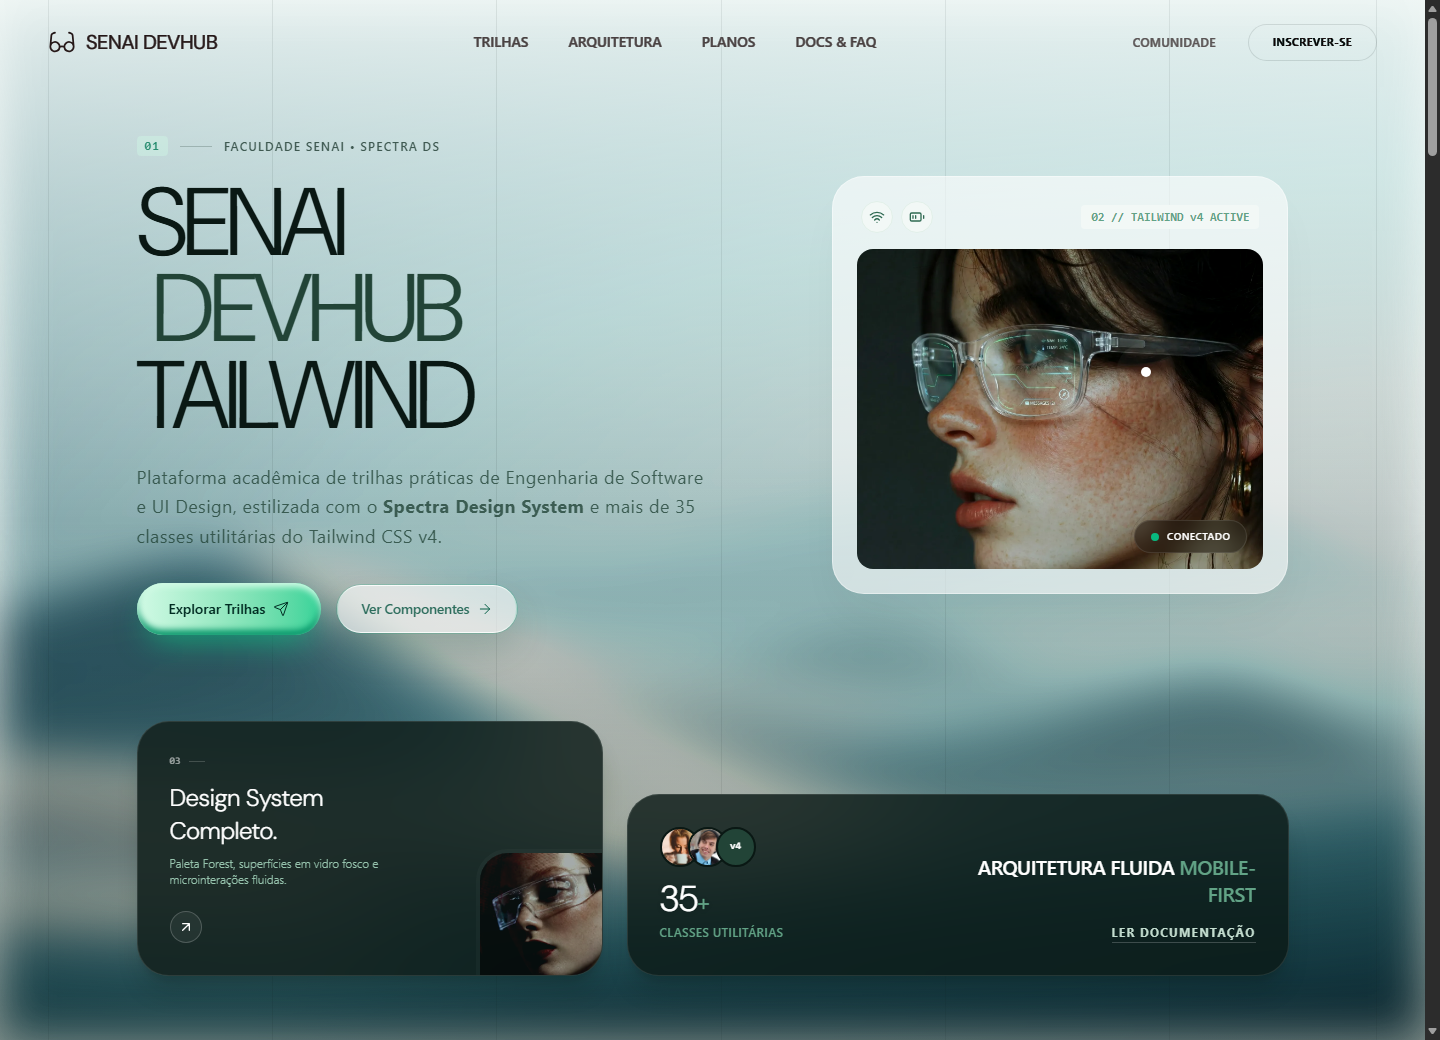
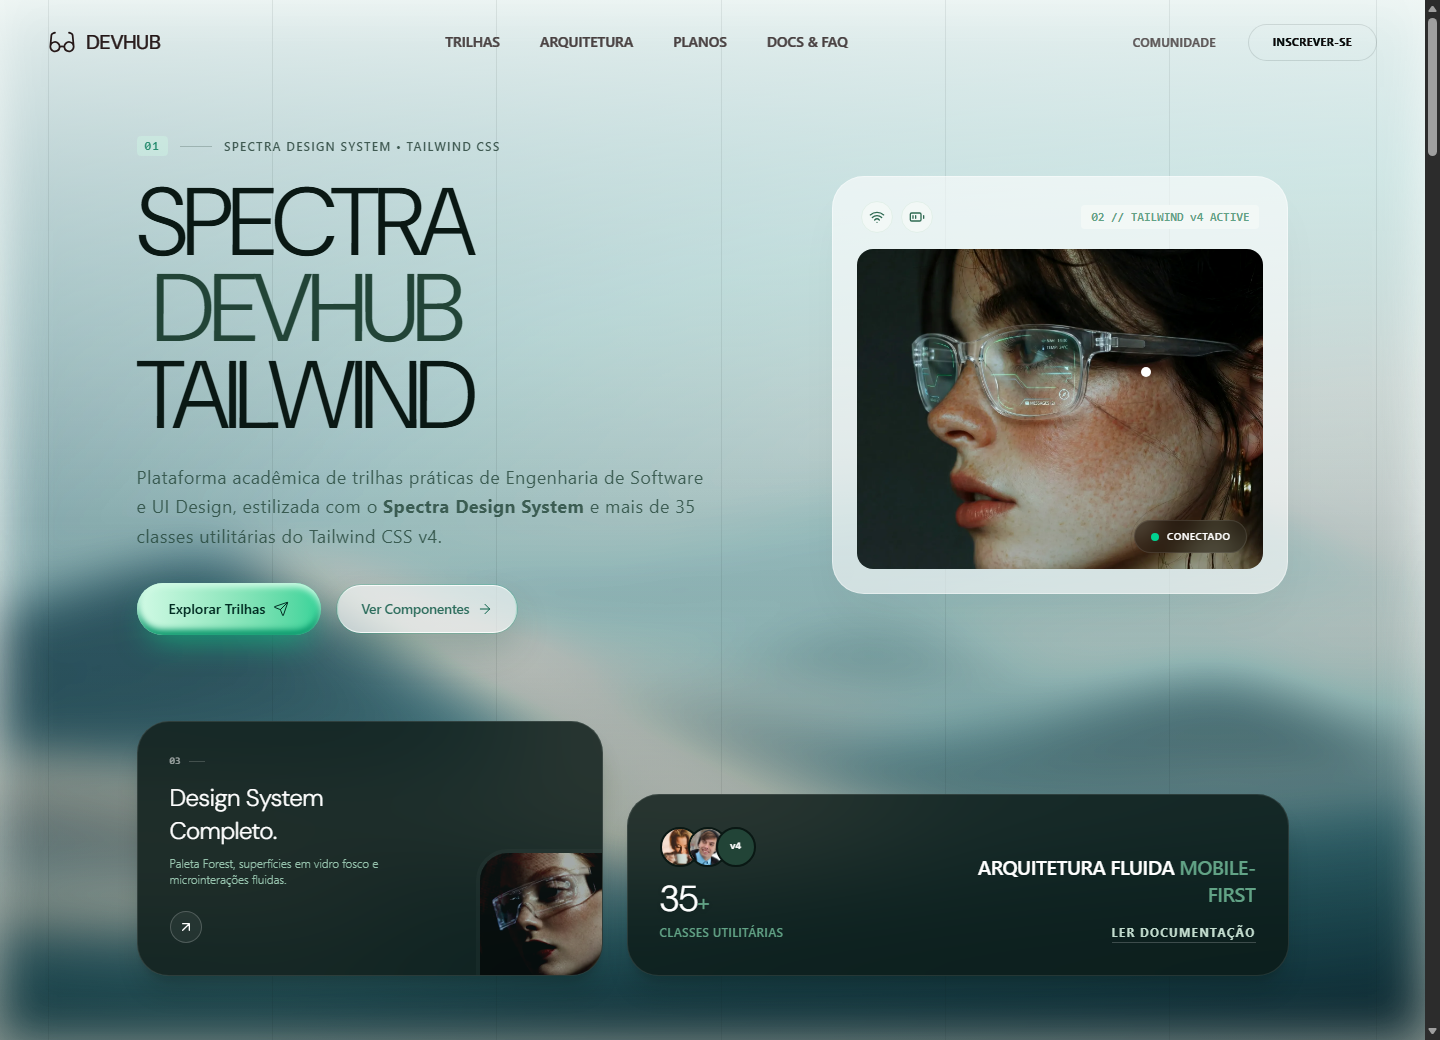
chore: remover referencias ao nome SENAI e atualizar prints

Changed region(s): [[0.125, 0.1231, 0.3438, 0.2462], [0.3125, 0.0308, 0.625, 0.0615], [0.0625, 0.0308, 0.1562, 0.0615]]

diff --git a/index.html b/index.html
@@ -1,9 +1,9 @@
-<!doctype html>
+<!doctype html>
 <html lang="pt-BR" class="scroll-smooth">
   <head>
     <meta charset="UTF-8" />
     <meta name="viewport" content="width=device-width, initial-scale=1.0" />
-    <title>SENAI DevHub — Spectra Design System com Tailwind CSS</title>
+    <title>DevHub — Spectra Design System com Tailwind CSS</title>
     <script src="https://cdn.jsdelivr.net/npm/@tailwindcss/browser@4"></script>
     <script src="assets/js/iconify-preload.js"></script>
     <script src="https://code.iconify.design/iconify-icon/1.0.7/iconify-icon.min.js"></script>
@@ -138,7 +138,7 @@
             clip-rule="evenodd"
           ></path>
         </svg>
-        <span class="uppercase text-xl font-normal tracking-tight font-dm-sans">SENAI DevHub</span>
+        <span class="uppercase text-xl font-normal tracking-tight font-dm-sans">DevHub</span>
       </a>
 
       <nav class="hidden lg:flex text-white/80 uppercase text-sm font-medium gap-x-10 items-center">
@@ -227,12 +227,12 @@
               </span>
               <div class="h-px w-8 bg-forest-900/30"></div>
               <span class="text-xs font-medium uppercase tracking-widest text-forest-900 font-sans">
-                Faculdade SENAI • Spectra DS
+                Spectra Design System • Tailwind CSS
               </span>
             </div>
 
             <h1 class="leading-[0.9] text-forest-950 text-4xl sm:text-5xl md:text-7xl xl:text-8xl tracking-tighter mix-blend-darken mb-6">
-              <span class="block tracking-tighter font-dm-sans font-light">SENAI</span>
+              <span class="block tracking-tighter font-dm-sans font-light">SPECTRA</span>
               <span class="block md:ml-4 ml-2 tracking-tighter text-forest-800 font-dm-sans font-light">DEVHUB</span>
               <span class="block tracking-tighter font-dm-sans font-light">TAILWIND</span>
             </h1>
@@ -336,7 +336,7 @@
               <div class="relative w-full h-64 md:h-80 rounded-2xl overflow-hidden group">
                 <img
                   src="assets/img/hero-preview.webp"
-                  alt="Ambiente Espacial SENAI DevHub"
+                  alt="Ambiente Espacial DevHub"
                   class="transform group-hover:scale-105 transition-transform duration-700 contrast-[1.1] brightness-[0.9] w-full h-full object-cover"
                 />
 
@@ -959,7 +959,7 @@
                   href="#inscricao"
                   class="inline-flex items-center gap-3 bg-forest-950 text-white px-8 py-4 rounded-xl font-medium hover:bg-emerald-600 hover:shadow-lg hover:shadow-emerald-600/20 transition-all duration-300 font-sans group text-sm"
                 >
-                  Participar da Turma SENAI
+                  Explorar a Comunidade
                   <iconify-icon
                     icon="solar:arrow-right-linear"
                     width="20"
@@ -1042,7 +1042,7 @@
             </span>
             <div class="h-px w-8 bg-forest-600"></div>
             <span class="text-xs font-medium uppercase tracking-widest text-forest-400 font-sans">
-              Comunidade SENAI
+              Comunidade DevHub
             </span>
           </div>
           <h2 class="text-4xl md:text-5xl text-forest-50 leading-tight tracking-tighter font-dm-sans font-light">
@@ -1061,7 +1061,7 @@
                   <img src="assets/img/avatar-1.jpg" alt="Lucas" class="w-12 h-12 rounded-full border border-white/10 grayscale group-hover:grayscale-0 transition-all object-cover" />
                   <div>
                     <h4 class="text-sm font-semibold text-white uppercase tracking-wider font-sans">Lucas Almeida</h4>
-                    <span class="text-xs text-forest-400 font-mono">FRONT-END, SENAI</span>
+                    <span class="text-xs text-forest-400 font-mono">FRONT-END, DEV</span>
                   </div>
                 </div>
                 <iconify-icon icon="solar:palette-linear" class="text-emerald-500/50 group-hover:text-emerald-400 transition-colors" width="32"></iconify-icon>
@@ -1077,7 +1077,7 @@
                   <img src="assets/img/avatar-2.jpg" alt="Mariana" class="w-12 h-12 rounded-full border border-white/10 grayscale group-hover:grayscale-0 transition-all object-cover" />
                   <div>
                     <h4 class="text-sm font-semibold text-white uppercase tracking-wider font-sans">Mariana Costa</h4>
-                    <span class="text-xs text-forest-400 font-mono">UI DESIGN, SENAI</span>
+                    <span class="text-xs text-forest-400 font-mono">UI DESIGN, STUDIO</span>
                   </div>
                 </div>
                 <iconify-icon icon="solar:planet-linear" class="text-emerald-500/50 group-hover:text-emerald-400 transition-colors" width="32"></iconify-icon>
@@ -1110,7 +1110,7 @@
                   <img src="assets/img/avatar-1.jpg" alt="Lucas" class="w-12 h-12 rounded-full border border-white/10 grayscale group-hover:grayscale-0 transition-all object-cover" />
                   <div>
                     <h4 class="text-sm font-semibold text-white uppercase tracking-wider font-sans">Lucas Almeida</h4>
-                    <span class="text-xs text-forest-400 font-mono">FRONT-END, SENAI</span>
+                    <span class="text-xs text-forest-400 font-mono">FRONT-END, DEV</span>
                   </div>
                 </div>
                 <iconify-icon icon="solar:palette-linear" class="text-emerald-500/50 group-hover:text-emerald-400 transition-colors" width="32"></iconify-icon>
@@ -1126,7 +1126,7 @@
                   <img src="assets/img/avatar-2.jpg" alt="Mariana" class="w-12 h-12 rounded-full border border-white/10 grayscale group-hover:grayscale-0 transition-all object-cover" />
                   <div>
                     <h4 class="text-sm font-semibold text-white uppercase tracking-wider font-sans">Mariana Costa</h4>
-                    <span class="text-xs text-forest-400 font-mono">UI DESIGN, SENAI</span>
+                    <span class="text-xs text-forest-400 font-mono">UI DESIGN, STUDIO</span>
                   </div>
                 </div>
                 <iconify-icon icon="solar:planet-linear" class="text-emerald-500/50 group-hover:text-emerald-400 transition-colors" width="32"></iconify-icon>
@@ -1161,7 +1161,7 @@
                   <img src="assets/img/avatar-4.jpg" alt="Beatriz" class="w-12 h-12 rounded-full border border-white/10 grayscale group-hover:grayscale-0 transition-all object-cover" />
                   <div>
                     <h4 class="text-sm font-semibold text-white uppercase tracking-wider font-sans">Beatriz Lima</h4>
-                    <span class="text-xs text-forest-400 font-mono">ENGENHARIA, SENAI</span>
+                    <span class="text-xs text-forest-400 font-mono">ENGENHARIA, TECH</span>
                   </div>
                 </div>
                 <iconify-icon icon="solar:heart-pulse-linear" class="text-emerald-500/50 group-hover:text-emerald-400 transition-colors" width="32"></iconify-icon>
@@ -1210,7 +1210,7 @@
                   <img src="assets/img/avatar-4.jpg" alt="Beatriz" class="w-12 h-12 rounded-full border border-white/10 grayscale group-hover:grayscale-0 transition-all object-cover" />
                   <div>
                     <h4 class="text-sm font-semibold text-white uppercase tracking-wider font-sans">Beatriz Lima</h4>
-                    <span class="text-xs text-forest-400 font-mono">ENGENHARIA, SENAI</span>
+                    <span class="text-xs text-forest-400 font-mono">ENGENHARIA, TECH</span>
                   </div>
                 </div>
                 <iconify-icon icon="solar:heart-pulse-linear" class="text-emerald-500/50 group-hover:text-emerald-400 transition-colors" width="32"></iconify-icon>
@@ -1395,7 +1395,7 @@
                 <span class="text-forest-400 font-sans text-sm">/ mês</span>
               </div>
               <p class="text-sm text-forest-300 mb-8 border-b border-white/10 pb-8 font-sans leading-relaxed">
-                Mentorias semanais, revisão de código, projetos reais e certificado SENAI DevHub.
+                Mentorias semanais, revisão de código, projetos reais e certificado DevHub.
               </p>
 
               <ul class="space-y-4 mb-10 flex-1">
@@ -1456,7 +1456,7 @@
                   Institucional
                 </span>
               </div>
-              <h3 class="text-3xl text-white font-dm-sans tracking-tight mb-4">Turmas SENAI</h3>
+              <h3 class="text-3xl text-white font-dm-sans tracking-tight mb-4">Equipes &amp; Labs</h3>
               <div class="flex items-baseline gap-1 mb-6">
                 <span class="text-4xl lg:text-5xl font-light text-white font-dm-sans">Custom</span>
               </div>
@@ -1663,7 +1663,7 @@
           </h2>
 
           <p class="text-base text-forest-300 leading-relaxed max-w-xl mx-auto mb-10 font-sans">
-            Receba desafios práticos semanais, templates baseados no Spectra Design System e novidades da comunidade SENAI DevHub.
+            Receba desafios práticos semanais, templates baseados no Spectra Design System e novidades da comunidade DevHub.
           </p>
 
           <form
@@ -1674,7 +1674,7 @@
               id="email-input"
               type="email"
               required
-              placeholder="seu.email@senai.br"
+              placeholder="seu.email@devhub.dev"
               class="w-full sm:flex-1 px-6 py-4 rounded-full border border-white/10 bg-forest-900/40 backdrop-blur-md text-sm text-white placeholder:text-forest-400 focus:outline-none focus:border-emerald-400"
             />
             <button
@@ -1714,7 +1714,7 @@
             <div>
               <div class="flex items-center gap-2 mb-5 text-forest-950">
                 <iconify-icon icon="solar:glasses-linear" width="28" stroke-width="1.5"></iconify-icon>
-                <span class="text-xl font-medium tracking-tight font-dm-sans">SENAI DevHub</span>
+                <span class="text-xl font-medium tracking-tight font-dm-sans">DevHub</span>
               </div>
               <p class="text-forest-500 text-sm leading-relaxed max-w-md font-sans mb-8">
                 Aplicação acadêmica desenvolvida com Tailwind CSS v4 e estilizada integralmente com o Spectra Design System.
@@ -1819,7 +1819,7 @@
         <div
           class="relative z-10 pt-8 border-t border-forest-900/5 flex flex-col sm:flex-row items-center justify-between gap-4 text-xs text-forest-500 font-sans"
         >
-          <p>© 2026 SENAI DevHub • Spectra Design System + Tailwind CSS v4</p>
+          <p>© 2026 DevHub • Spectra Design System + Tailwind CSS v4</p>
           <div class="flex items-center gap-6">
             <a href="#trilhas" class="hover:text-forest-950 transition-colors">Trilhas</a>
             <a href="#faq" class="hover:text-forest-950 transition-colors">Documentação</a>
@@ -1956,7 +1956,7 @@
 
       form.addEventListener("submit", (e) => {
         e.preventDefault();
-        feedback.textContent = `Inscrição confirmada para ${emailInput.value}! Bem-vindo ao SENAI DevHub.`;
+        feedback.textContent = `Inscrição confirmada para ${emailInput.value}! Bem-vindo ao DevHub.`;
         feedback.classList.remove("hidden");
         emailInput.value = "";
       });

diff --git a/README.md b/README.md
@@ -1,6 +1,6 @@
-# SENAI DevHub — Aplicação com Tailwind CSS & Spectra Design System
+# DevHub — Aplicação com Tailwind CSS & Spectra Design System
 
-Projeto acadêmico desenvolvido para a **Faculdade SENAI**, aplicando integralmente o **Spectra Design System** sobre **Tailwind CSS v4** na plataforma **SENAI DevHub — Portal de Trilhas & Projetos Tech**, utilizando mais de **30 classes utilitárias distintas** abrangendo cores, tipografia, dimensões, bordas, Flexbox, CSS Grid e responsividade.
+Projeto acadêmico aplicando integralmente o **Spectra Design System** sobre **Tailwind CSS v4** na plataforma **DevHub — Portal de Trilhas & Projetos Tech**, utilizando mais de **30 classes utilitárias distintas** abrangendo cores, tipografia, dimensões, bordas, Flexbox, CSS Grid e responsividade.
 
 ---
 
@@ -31,11 +31,11 @@ Projeto acadêmico desenvolvido para a **Faculdade SENAI**, aplicando integralme
 
 ### 1. Aplicação Executando — Desktop (`1440px`)
 
-![Aplicação SENAI DevHub com Spectra Design System em Desktop](docs/prints/app-desktop.png)
+![Aplicação DevHub com Spectra Design System em Desktop](docs/prints/app-desktop.png)
 
 ### 2. Aplicação Executando — Mobile Responsivo (`520px`)
 
-![Aplicação SENAI DevHub com Spectra Design System em Mobile](docs/prints/app-mobile.png)
+![Aplicação DevHub com Spectra Design System em Mobile](docs/prints/app-mobile.png)
 
 ### 3. Código-Fonte (`index.html`)
 
